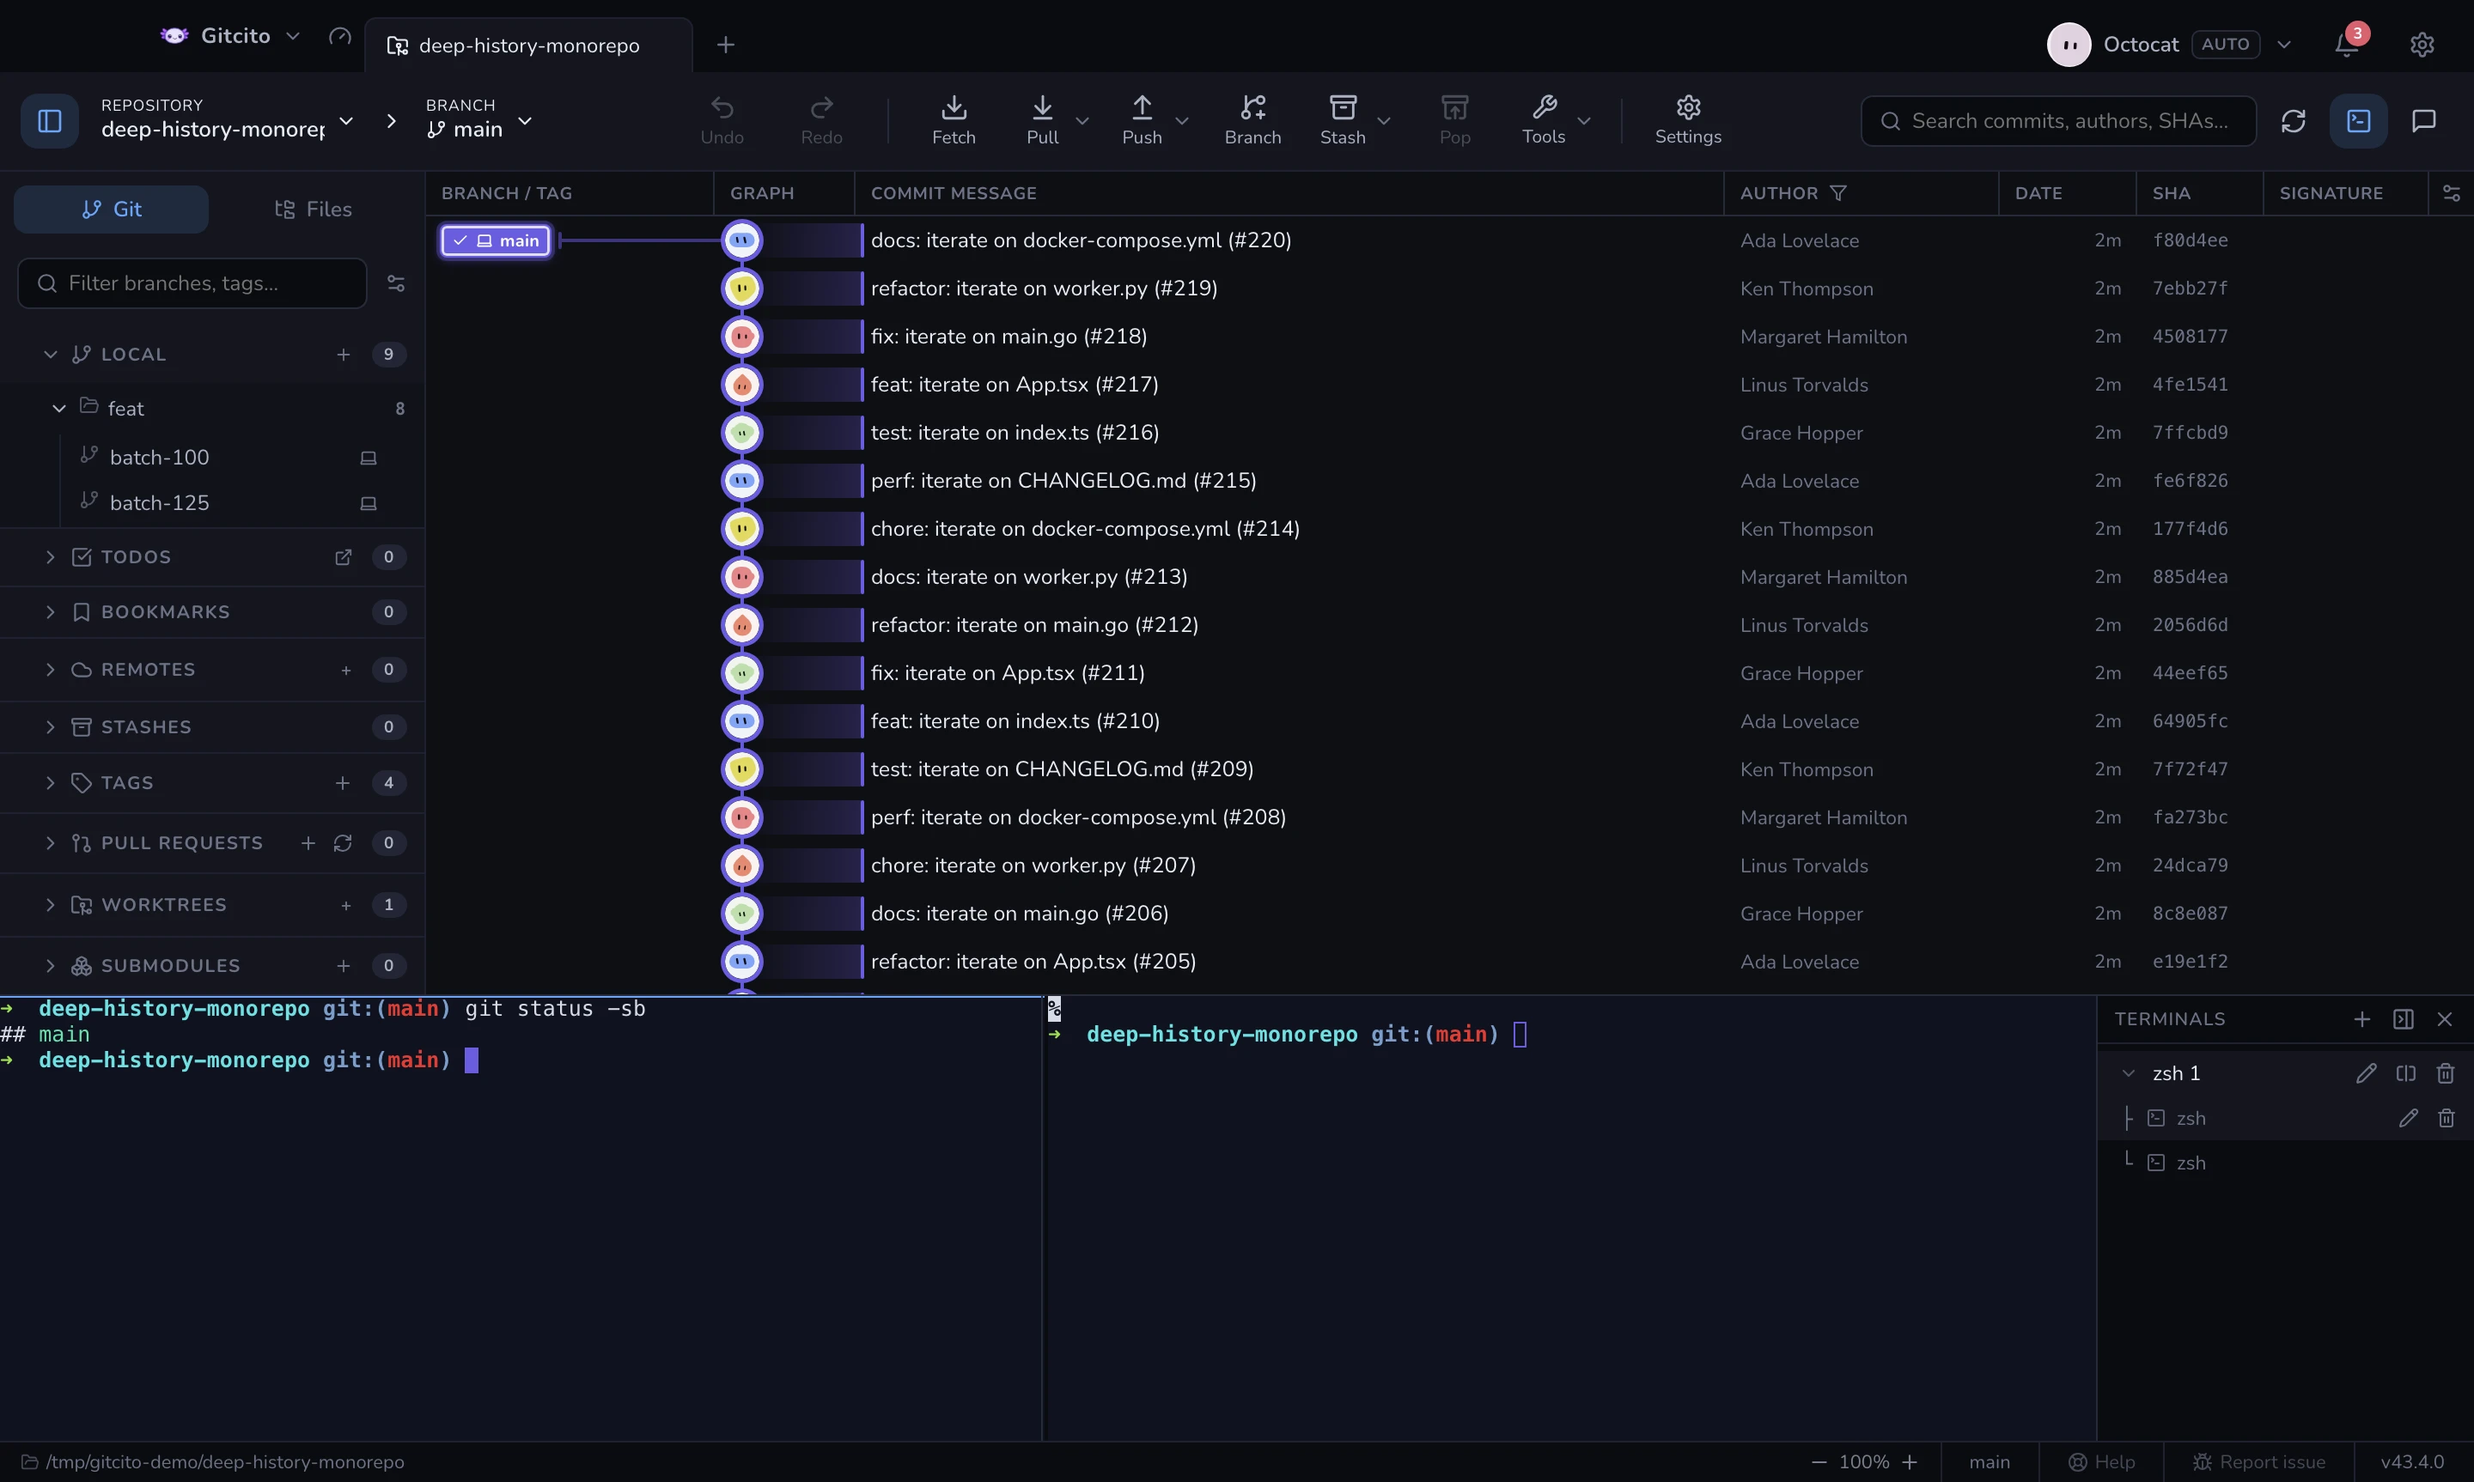
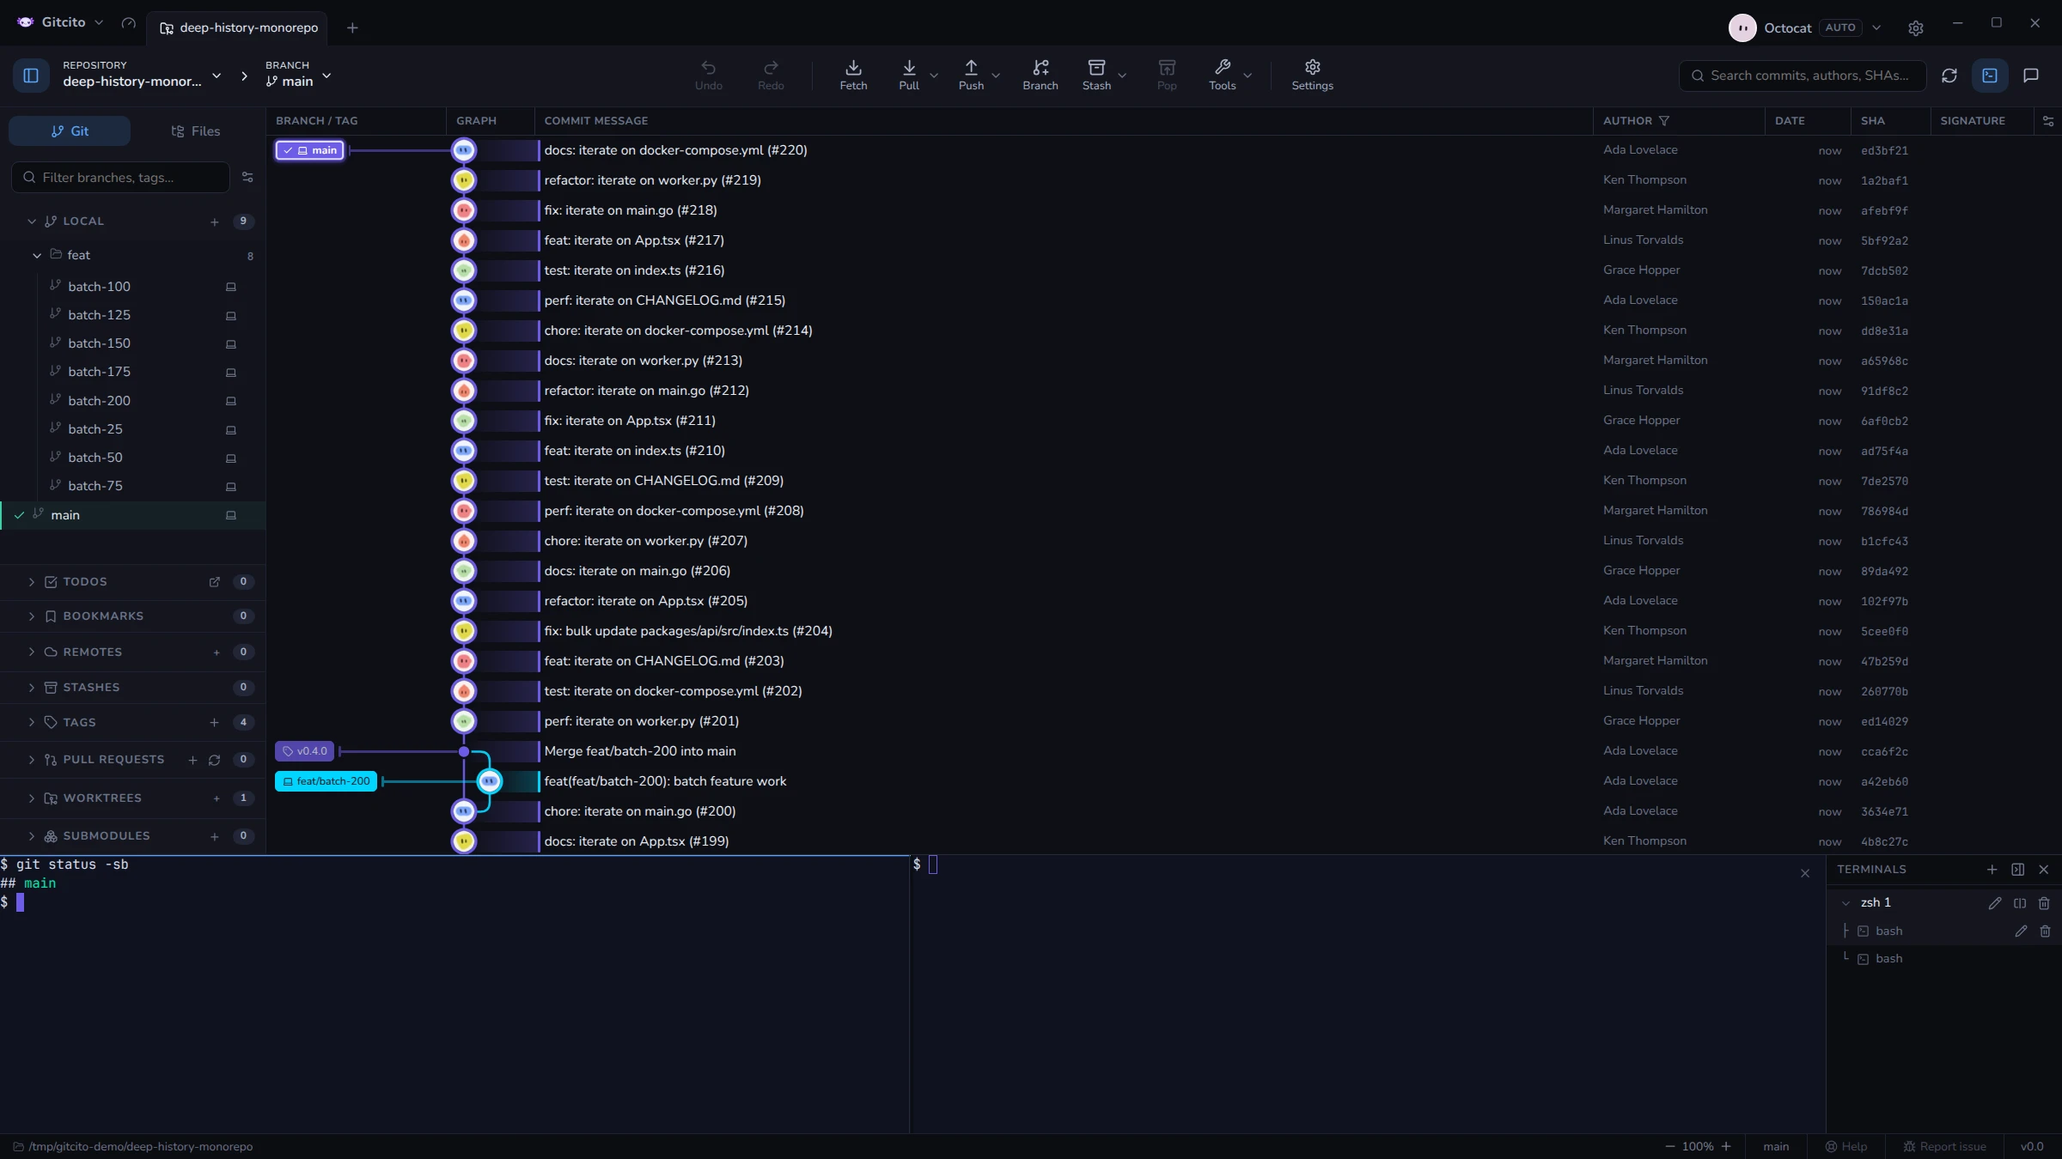
chore: keep the machine out of terminal shots, and capture from an Electron editor or Wayland
Terminal shots now run a neutral shell (bash --noprofile --norc, prompt "$ ")
with its own throwaway HOME, so the prompt no longer prints the user, the host
name or the LAN address of whoever captured them.

The capture drops ELECTRON_RUN_AS_NODE, which VS Code and Cursor export in
their terminals and which makes Electron start as plain Node, and
SHOT_ELECTRON_ARGS passes extra switches — --ozone-platform=x11 on a Wayland
desktop whose compositor will not hand Chromium a screenshot.

diff --git a/examples/screenshots/README.md b/examples/screenshots/README.md
@@ -46,12 +46,26 @@ The bridge ships nothing in a normal build: it only attaches when the app is
 launched with `--shot` (the flag is forwarded into the renderer by the main
 process).
 
+## Running it on Linux, or from an editor
+
+- **From VS Code, Cursor or another Electron editor**: their terminals export
+  `ELECTRON_RUN_AS_NODE=1`, which turns Electron into plain Node. The capture
+  drops it before launching the app, so nothing needs unsetting by hand.
+- **On a Wayland desktop** whose compositor will not hand Chromium a
+  screenshot (every shot times out in `page.screenshot`), capture through
+  XWayland: `env -u WAYLAND_DISPLAY SHOT_ELECTRON_ARGS=--ozone-platform=x11 npm run screenshots`.
+  `SHOT_ELECTRON_ARGS` passes any extra switches to the app.
+
 ## Keeping the machine out of the picture
 
 Shots run against the playground, so their content is deterministic — except
 where a feature reads something outside the repository. **The SSH key list is
 the one place that would otherwise photograph the person who ran the capture**:
 real fingerprints, and usually a real email in a key comment.
+
+Terminal shots are the other one: the shell would run the machine's profile,
+and its prompt prints the user, the host name and often the LAN address. They
+run a neutral shell instead — `bash --noprofile --norc` with a bare `$ ` prompt.
 
 So that entry generates a throwaway pair with `ssh-keygen` in a temp dir and
 points the app at it:
